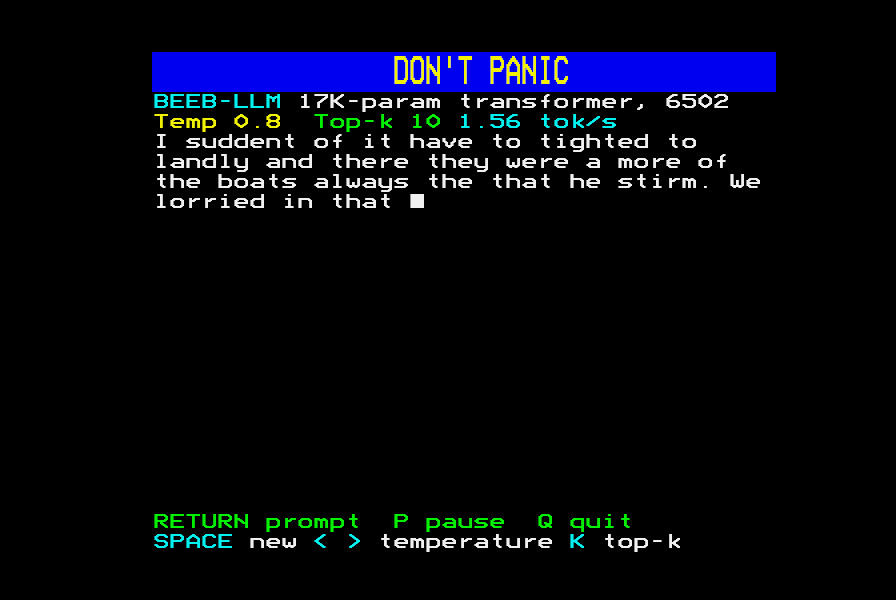
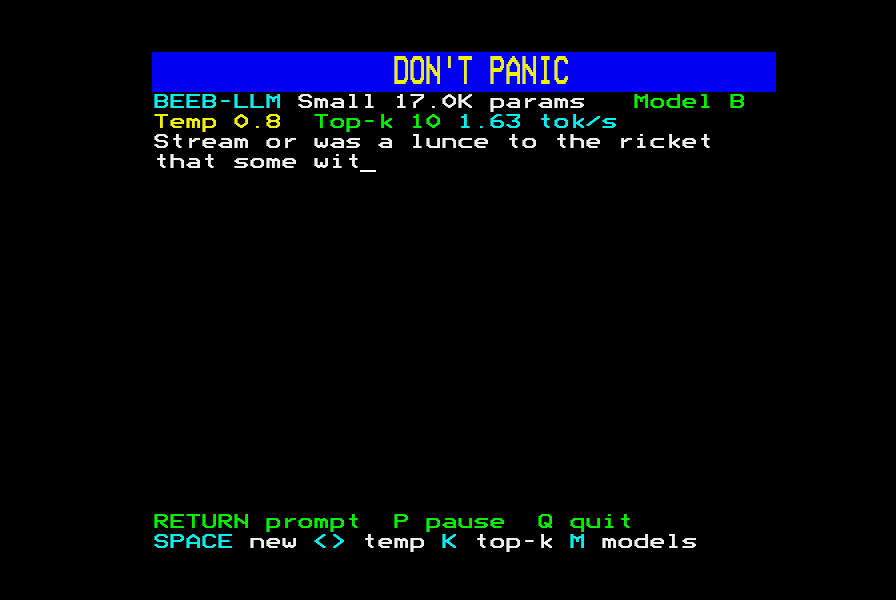
Adaptive BEEB-LLM: four model sizes, boot menu with hardware detection, 6502 Second Processor build, web machine toggle

diff --git a/web/index.html b/web/index.html
@@ -80,6 +80,10 @@ Click the emulator to give it the keyboard.</div>
   </table>
 </div>
 <table id="models"><tr><th>model</th><th>params</th><th>shape</th><th>bits/char</th><th>chars/s Model B</th><th>chars/s 2P</th></tr>
+<tr><td>Tiny</td><td>10,447</td><td>2 × d24, MLP 48</td><td>2.33</td><td>2.35</td><td>3.59</td></tr>
+<tr><td>Small</td><td>16,975</td><td>2 × d32, MLP 64</td><td>2.22</td><td>1.57</td><td>2.40</td></tr>
+<tr><td>Medium</td><td>34,639</td><td>2 × d48, MLP 96</td><td>2.05</td><td>doesn't fit</td><td>1.32</td></tr>
+<tr><td>Large</td><td>49,679</td><td>3 × d48, MLP 96</td><td>2.00</td><td>doesn't fit</td><td>0.92</td></tr>
 <!--MODELS--></table>
 <p class="note">The status line shows the temperature, top-k and the measured speed in characters (tokens) per second.
 The model only knows lower case; the Beeb capitalises sentences and a lone "i" as it types.</p>

diff --git a/README.md b/README.md
@@ -2,17 +2,19 @@
 
 **A transformer language model running natively on a 1981 BBC Micro Model B**
 (6502 at 2 MHz, 32K RAM, OS 1.20), in MODE 7, typing out new text a character
-at a time. It's pure integer 6502 machine code: no second processor and no
-co-processor tricks.
+at a time. It's pure integer 6502 machine code. It runs on a plain Model B, and
+if it finds a **6502 Second Processor** it runs there instead, with room for
+models three times the size.
 
-**Play it in your browser:** https://bobstrogg.github.io/beeb-llm/ (jsbeeb)
+**Play it in your browser:** https://bobstrogg.github.io/beeb-llm/ (jsbeeb, Model B)
+or https://bobstrogg.github.io/beeb-llm/?machine=2p (Model B + 6502 Second Processor)
 
 ![BEEB-LLM generating text](docs/images/generating.png)
 
 It's a real (very small) GPT-style network: token embedding, two transformer
 blocks with multi-query self-attention and a ReLU MLP, RMSNorm, and an output
 layer over a 47-character alphabet. It was trained on a PC, quantised to 8-bit
-integers, and is run by a 4.9 KB inference engine on the Beeb. The 6502's
+integers, and is run by a 5.4 KB inference engine on the Beeb. The 6502's
 output matches a Python reference model **bit for bit**: every logit and every
 sampled character.
 
@@ -21,9 +23,43 @@ Men in a Boat* and *Three Men on the Bummel*. The pipeline is set up so you
 can drop in your own copy of *The Hitchhiker's Guide to the Galaxy* and
 retrain with one command ([below](#train-it-on-your-own-book)).
 
+## Four models, one disc
+
+The disc holds four models trained the same way on the same text. At boot
+BEEB-LLM checks for a second processor (OSBYTE &EA) and which machine it is on
+(OSBYTE 0), shows a menu of the models with their size, speed on this machine
+and whether they fit, and after five seconds starts the default:
+the biggest model that fits **and** manages at least one character a second.
+That's **Small** on a Model B and **Medium** on a second processor.
+Pick another with 1–4 or the cursor keys and RETURN; **M** brings the menu
+back at any time.
+
+| Model | Params | Shape | RAM | Bits/char | Chars/s Model B | Chars/s 2P | Sample (seed 1234, temp 0.8, top-k 10, prompt "the ") |
+|---|---|---|---|---|---|---|---|
+| **Tiny** | 10,447 | 2 × d24, MLP 48 | 11.8 KB | 2.33 | 2.35 | 3.59 | the sleep about of a speare fied to stortaine thame." / "i shall old and my were finish mind… |
+| **Small** | 16,975 | 2 × d32, MLP 64 | 18.2 KB | 2.22 | 1.57 | 2.40 | the times a she watch his being to mysely take affuling if you dear, whichings. the seemed of… |
+| **Medium** | 34,639 | 2 × d48, MLP 96 | 35.6 KB | 2.05 | doesn't fit | 1.32 | the top of children and the tail because, and a looked tasten, they boat. she metholing to… |
+| **Large** | 49,679 | 3 × d48, MLP 96 | 51.1 KB | 2.00 | doesn't fit | 0.92 | the toiment shutted off it the sobatheth, to stains to say, in the ocertain, and still me as… |
+
+Bits per character are for the integer model on held-out text (lower is
+better). Speeds were measured in jsbeeb over 6 × 200 characters with
+`test/verify.mjs`; the Second Processor is a 3 MHz 65C02, about 1.53× faster.
+Medium and Large need the second processor's memory (and wider rows than the
+Model B's zero-page accumulators allow), so the Model B menu shows them in blue.
+
+![the boot menu on a Model B](docs/images/menu-model-b.png)
+![the boot menu with a 6502 Second Processor](docs/images/menu-2p.png)
+
+How the sizes were chosen: a sweep of 10 shapes (6,000 + 1,000 QAT steps each)
+for the best bits per character per 6502 cycle. Two layers of width 24 beat one
+layer of 32 and two of 16 for Tiny; for Medium, d48 × 2 layers (2.160 bpc, 1.33
+chars/s on the 2P) beat d40 × 3 (2.153, 1.23) and d32 × 4 (2.159, 1.30) on
+speed for the same quality; for Large, d48 × 3 (2.079) beat d56 × 2 (2.114).
+The chosen four were then trained for 14,000 + 3,000 steps.
+
 ## What it writes
 
-These are real outputs from the stand-in model (identical on the Beeb and in
+These are real outputs from the stand-in Small model (identical on the Beeb and in
 `tools/intref.py`). The Beeb adds the capital letters as it types:
 
 > **The meaning of life**. He rawing it out they had been spood him, while mething the black all set which an into sung to only with the river, I sin to get toms, and I addle...
@@ -49,7 +85,8 @@ same the same...", so the default is temperature 0.8 with top-k 10.
 | `<` `>` (or `,` `.`) | temperature 0.3, 0.5, 0.6, 0.7, **0.8**, 0.9, 1.0, 1.1, 1.2, 1.5 |
 | K | top-k: off, 1 (greedy), 3, 5, **10**, 20 |
 | P | pause / resume |
-| Q or ESCAPE | quit to BASIC (`*RUN LLM` or `*LLM` starts it again) |
+| M | back to the model menu |
+| Q or ESCAPE | quit to BASIC (`*RUN LLM`, or `*RUN LLMP` on a second processor, starts it again) |
 
 The status line shows temperature, top-k and the measured speed in tokens per
 second (one token = one character). The web page also has on-screen buttons
@@ -57,7 +94,7 @@ and a prompt box for phones.
 
 ![a prompt](docs/images/prompt.png)
 
-## Model
+## Model (Small)
 
 | | |
 |---|---|
@@ -70,20 +107,39 @@ and a prompt box for phones.
 | Parameters | **16,975** (16,320 weights, 399 biases, 256 relative-position biases) |
 | Storage | 17,630 bytes: int8 weights, int16 biases, plus the norm and exp tables |
 | Quality | about 2.2–2.3 bits per character on held-out text (float 2.25, QAT 2.29, integer model 2.22 on its own sample of windows) |
-| Speed | **1.58 tokens/s** (1.26 million 6502 cycles per token, measured in jsbeeb; the on-screen meter shows 1.56 because it includes the display) |
+| Speed | **1.57 characters/s** on a Model B (about 1.27 million 6502 cycles per character, measured in jsbeeb), 2.40 on a 6502 Second Processor |
 
-Memory map (32K Model B, DFS/MMFS, PAGE = &1900):
+Memory map, Model B (PAGE = &1900; program `LLM`):
 
 | Address | Contents |
 |---|---|
-| &0000–&008F | zero page: 64 16-bit accumulators, multiply pointers (BASIC's zero page is saved and restored) |
+| &0000–&007F | zero page: 64 16-bit accumulators (BASIC is restarted on exit) |
 | &0900–&0CFF | quarter-square table f(n) = ⌊n²/4⌋, n = −256…255, built at start-up |
-| &1900–&2C2F | code, screen text, tables (4.9 KB) |
-| &2C30–&714A | the model (17.3 KB) |
-| &714A–&7950 | KV cache (1 KB), activations, buffers |
+| &1900–&2E14 | code, screen text, tables (5.4 KB) |
+| &2E15–&316D | activations and buffers |
+| &316E–&7BFF | 19,090 bytes for a model and its KV cache (or the menu overlay) |
 | &7C00–&7FFF | MODE 7 screen |
 
-### Size / quality trade-off
+On a 6502 Second Processor (program `LLMP`) the code starts at &0800, the
+multiply table goes in BASIC's old workspace at &0400, the accumulators move
+to a page-aligned buffer (128 rows) and 54,551 bytes from &22E9 to &F7FF are
+free for the model. Its screen output goes across the Tube through OSWRCH,
+the same as the Model B build.
+
+### Model files and the menu
+
+`tools/export_beeb.py` writes each model as a relocatable file (`M0`–`M3`): a
+20-byte header (d, layers, MLP width, context, vocabulary, norm and output
+shifts, offsets) and a 30-byte entry per layer with the offsets of its
+matrices and its shifts. The engine loads the file at the end of its own
+data, adds the load address to every offset and gives each layer a slice of
+KV cache after the model, so one engine runs every shape (head size is fixed
+at 8; d, layers, MLP width and context come from the header). The boot menu
+(`MENU` / `MENUP`) is an overlay loaded into the same space. `!BOOT` is one
+line of BASIC that asks OSBYTE &EA whether there is a Tube and runs `LLMP` or
+`LLM`.
+
+### Size / quality trade-off (the first, Small-sized sweep)
 
 All runs used the same corpus and 8,000 float steps plus 2,000 QAT steps.
 Bits per character on held-out text:
@@ -133,9 +189,9 @@ marginally better, but head size 6 doesn't suit the 6502 code.
   with fixed seeds, temperatures, top-k values and a prompt, then compares
   every sampled character (and, with `HOOK=1`, the 47 logits behind each one).
 
-Where the time goes (profiled in jsbeeb): 69% multiply-accumulate inner loop,
-6% attention bookkeeping, 6% shifts, 4% OS interrupts, 3.5% division, 3%
-norms, the rest sampling and display.
+Where the time goes (Small, profiled in jsbeeb): 69% multiply-accumulate inner
+loop, 6% shifts, 5% OS (interrupts and screen output), 5% attention
+bookkeeping, 3.5% division, 3% norms, the rest sampling and display.
 
 ## Train it on your own book
 
@@ -144,7 +200,7 @@ on your PATH.
 
 ```sh
 cp ~/books/hitchhikers.txt corpus/hhgttg.txt     # your own copy, plain text
-./retrain.sh                                     # ~5-10 minutes on a laptop CPU
+./retrain.sh                                     # all four sizes, ~30 minutes on an 8-core CPU
 ```
 
 `retrain.sh` uses `corpus/hhgttg.txt` when it exists, otherwise it downloads
@@ -155,10 +211,12 @@ then with quantisation-aware training that simulates the Beeb's integer maths
 checks the integer model, exports the Beeb layout
 ([`tools/export_beeb.py`](tools/export_beeb.py)), assembles the disc and builds
 the MMFS image. Any plain-text file works: `./retrain.sh path/to/book.txt`.
-`QUICK=1 ./retrain.sh` does a two-minute run to test the pipeline.
+`QUICK=1 ./retrain.sh` does a short run to test the pipeline, and
+`SIZES="tiny small" ./retrain.sh` retrains only some sizes. The four sizes
+train side by side and all go on the one disc.
 
 **Copyright:** neither corpora nor weights trained on them are committed. Only
-the public-domain stand-in model (`models/standin.npz`) is in the repository
+the public-domain stand-in models (`models/standin-*.npz`) are in the repository
 and on the web page. A model trained on your own book is written to `build/`
 only (`build/beeb-llm.ssd`, `build/BEEB-LLM.MMB.zip`) for your own machines.
 
@@ -176,9 +234,12 @@ To rebuild the shipped disc from the committed weights without training:
   `perl vendor/MMB_Utils/dput_ssd.pl -f BEEB.MMB 4 discs/beeb-llm.ssd`, then
   on the Beeb `*DIN 4` and SHIFT+BREAK (or `*RUN LLM`).
 
-It needs a plain Model B with DFS or MMFS (PAGE = &1900). It uses the
-RS423/cassette buffers, soft-key buffer and user-character area
-(&0900–&0CFF) for its multiply table, so soft keys are cleared on exit.
+It needs a Model B with DFS or MMFS (PAGE = &1900); a 6502 Second Processor
+is used if present. On the Model B it uses the RS423/cassette buffers,
+soft-key buffer and user-character area (&0900–&0CFF) for its multiply table,
+so soft keys are cleared on exit. Sideways RAM and Master shadow RAM are
+detected by neither build: the Model B build keeps the 17K model as its
+biggest, and a second processor is the way to run the larger ones.
 
 ## Building and testing
 
@@ -190,13 +251,17 @@ test/run-all.sh                          # bit-exact check, boot/quit checks, br
 node test/browser.mjs https://bobstrogg.github.io/beeb-llm/   # the live site
 ```
 
-* `test/verify.mjs [N]`: headless jsbeeb, six fixed cases (various seeds,
-  temperatures 0.5–1.2, top-k off/1/5/10/20 and a typed prompt), compares N
-  tokens with the Python reference and reports cycles per token.
-* `test/boot.mjs`: SHIFT+BREAK autoboot, Q and ESCAPE back to a working BASIC
-  (immediate mode and a program), `*RUN LLM` and `*LLM`.
-* `test/browser.mjs`: the web page in headless Chrome, including the prompt
-  box and buttons.
+* `test/verify.mjs [N]`: headless jsbeeb on a Model B and on a Model B +
+  6502 Second Processor, every model that fits, six fixed cases each (various
+  seeds, temperatures 0.5–1.2, top-k off/1/5/10/20 and a typed prompt);
+  compares N tokens with the Python reference and measures characters per
+  second (`HOOK=1` compares the logits too).
+* `test/boot.mjs`: on both machines, SHIFT+BREAK to the menu and the auto-picked
+  default, M back to the menu, Q, ESCAPE and Q-in-the-menu back to a working
+  BASIC, `*RUN LLM`/`*LLM` (`LLMP` on the second processor). Screenshots in
+  `screenshots/`.
+* `test/browser.mjs`: the web page in headless Chrome for both machines,
+  including the prompt box and buttons.
 * `test/profile.mjs`: cycle profile by routine.
 
 BeebAsm was built from `vendor/beebasm-src`. The web page uses a prebuilt
@@ -204,8 +269,7 @@ jsbeeb in `web/jsbeeb` and is deployed by `.github/workflows/pages.yml`.
 
 ## Possible next steps
 
-* A bigger model for the 6502 Second Processor (64K: about 3× the parameters),
-  or streaming weights from disc.
+* Streaming weights from disc or sideways RAM for still bigger models.
 * 4-bit weights with per-column multiple tables: roughly twice the parameters
   in the same memory, at a similar speed.
 
